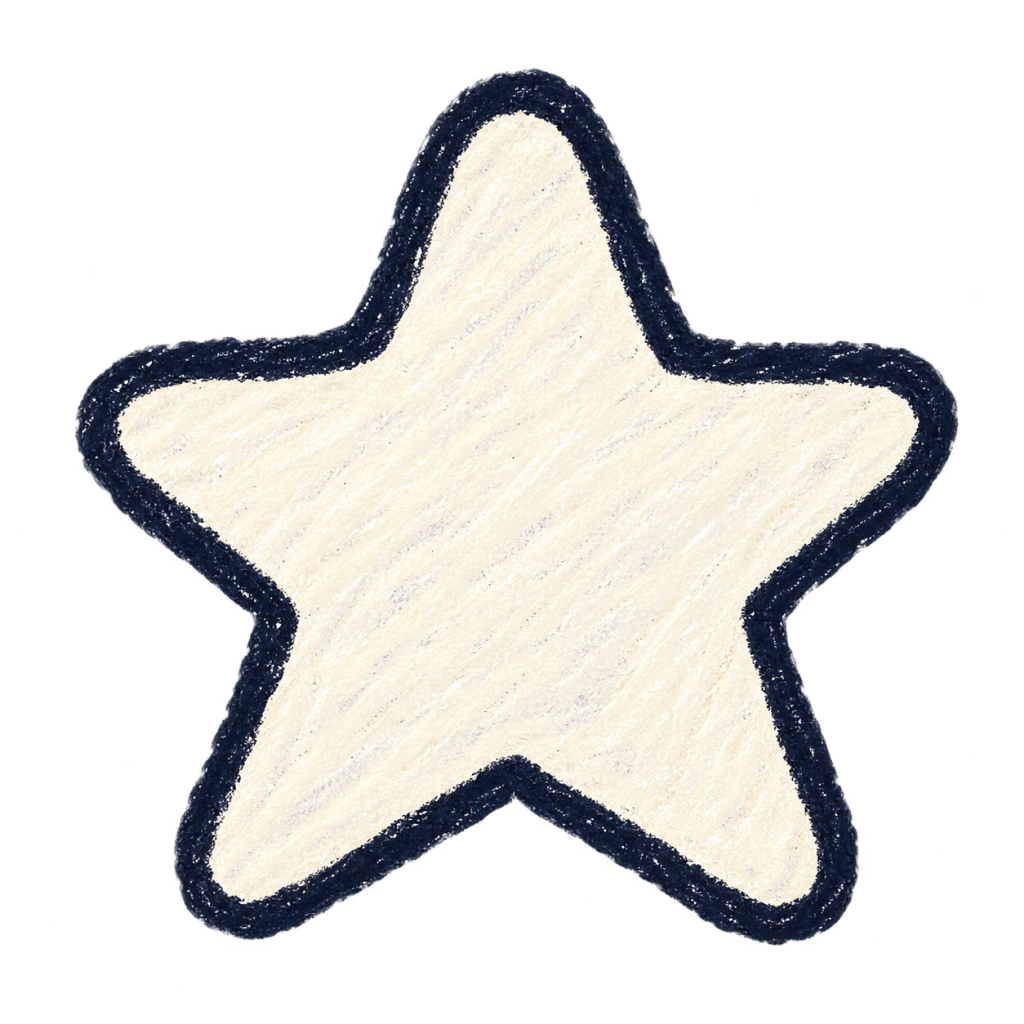
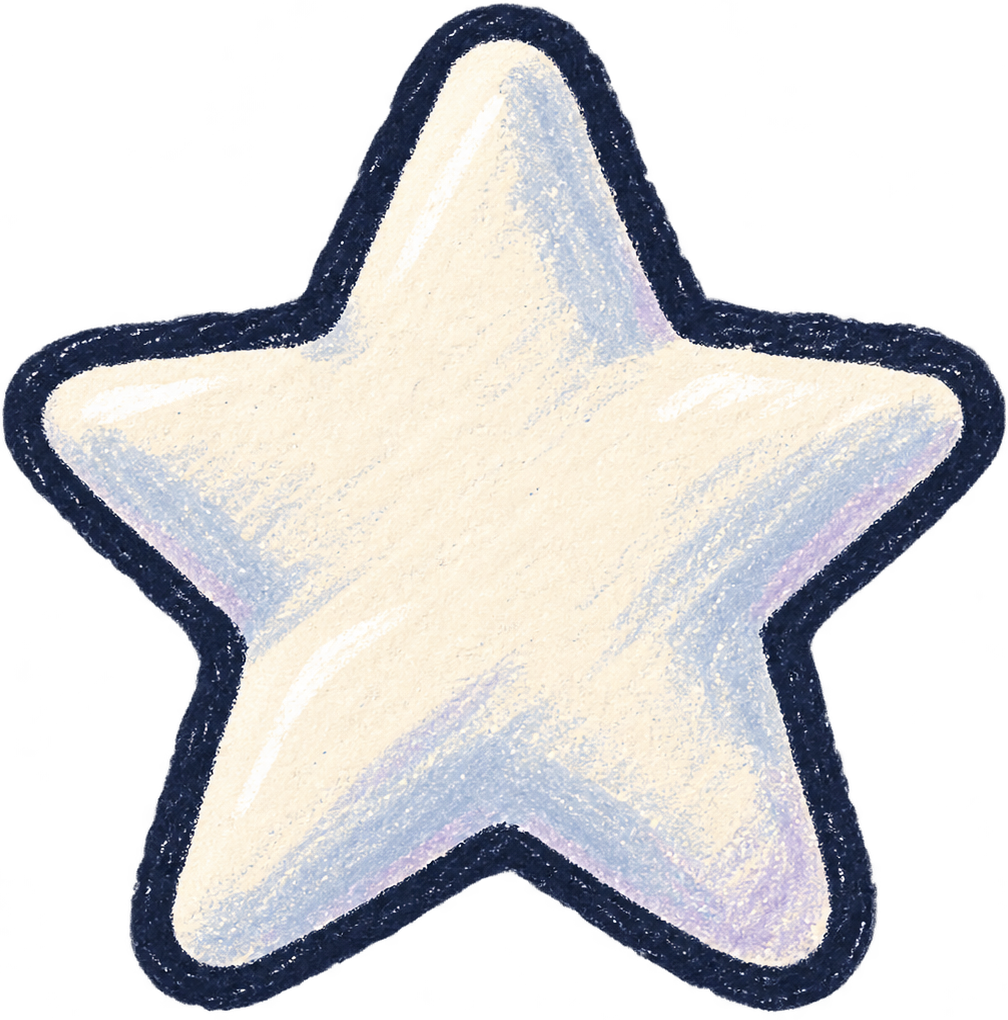
feat: 에셋 크기 수정
수정 에셋:
- 크기: 노말 블록, 발판 plate, 웜홀
- 교체: goal

diff --git a/src/game/scenes/game/view.ts b/src/game/scenes/game/view.ts
@@ -84,7 +84,12 @@ export function createGameView(selection: PlaySelection, onHome: () => void): Ga
         const old = overlays.get(key(position));
         if (overlayTexture) {
           const overlay = old ?? document.createElement("img");
-          overlay.className = styles.overlay;
+          const overlayKind = game.tiles[y]![x];
+          overlay.className = overlayKind === "plate"
+            ? `${styles.overlay} ${styles.plate}`
+            : overlayKind === "wormhole"
+              ? `${styles.overlay} ${styles.wormhole}`
+              : styles.overlay;
           overlay.alt = "";
           overlay.src = assetUrls[overlayTexture];
           if (!old) {
@@ -112,7 +117,9 @@ export function createGameView(selection: PlaySelection, onHome: () => void): Ga
       let image = entityNodes.get(entity.id);
       if (!image) {
         image = document.createElement("img");
-        image.className = styles.entity;
+        image.className = entity.kind === "normal"
+          ? `${styles.entity} ${styles.normal}`
+          : styles.entity;
         image.alt = entity.kind === "player" ? "플레이어" : entity.kind;
         entityNodes.set(entity.id, image);
       }

diff --git a/src/editor/editorApp.ts b/src/editor/editorApp.ts
@@ -341,7 +341,7 @@ export function mountEditor(
         const field = draft.tiles[y][x];
         const label = object ? `${field}, ${object.kind}` : field;
         const overlayAsset = overlayForField(field, game, key);
-        const goal = overlayAsset
+        const goal = field === "exit" && overlayAsset
           ? `<img class="goal-asset" src="${resolveAsset(overlayAsset)}" alt="" />`
           : "";
         const gateVisual = field === "gate" ? gateVisualFor(game) : undefined;

diff --git a/src/editor/style.css b/src/editor/style.css
@@ -385,12 +385,11 @@ h1 {
   z-index: -1;
   object-fit: contain;
 }
+.field-asset-plate,
 .field-asset-wormhole {
-  left: 50%;
-  right: auto;
-  width: auto;
-  max-width: none;
-  transform: translateX(-50%);
+  inset: 17%;
+  width: 66%;
+  height: 66%;
 }
 .gate-assets {
   position: absolute;
@@ -445,6 +444,11 @@ h1 {
   inset: 9%;
   width: 82%;
   height: 82%;
+}
+.object-asset.object-normal {
+  inset: 23%;
+  width: 54%;
+  height: 54%;
 }
 .object-asset img {
   width: 100%;

diff --git a/src/game/scenes/game/scene.module.css b/src/game/scenes/game/scene.module.css
@@ -73,6 +73,14 @@
 .goal {
   z-index: 1;
 }
+.plate,
+.wormhole,
+.normal {
+  height: 66%;
+  left: 17%;
+  top: 17%;
+  width: 66%;
+}
 .entity {
   z-index: 2;
 }
